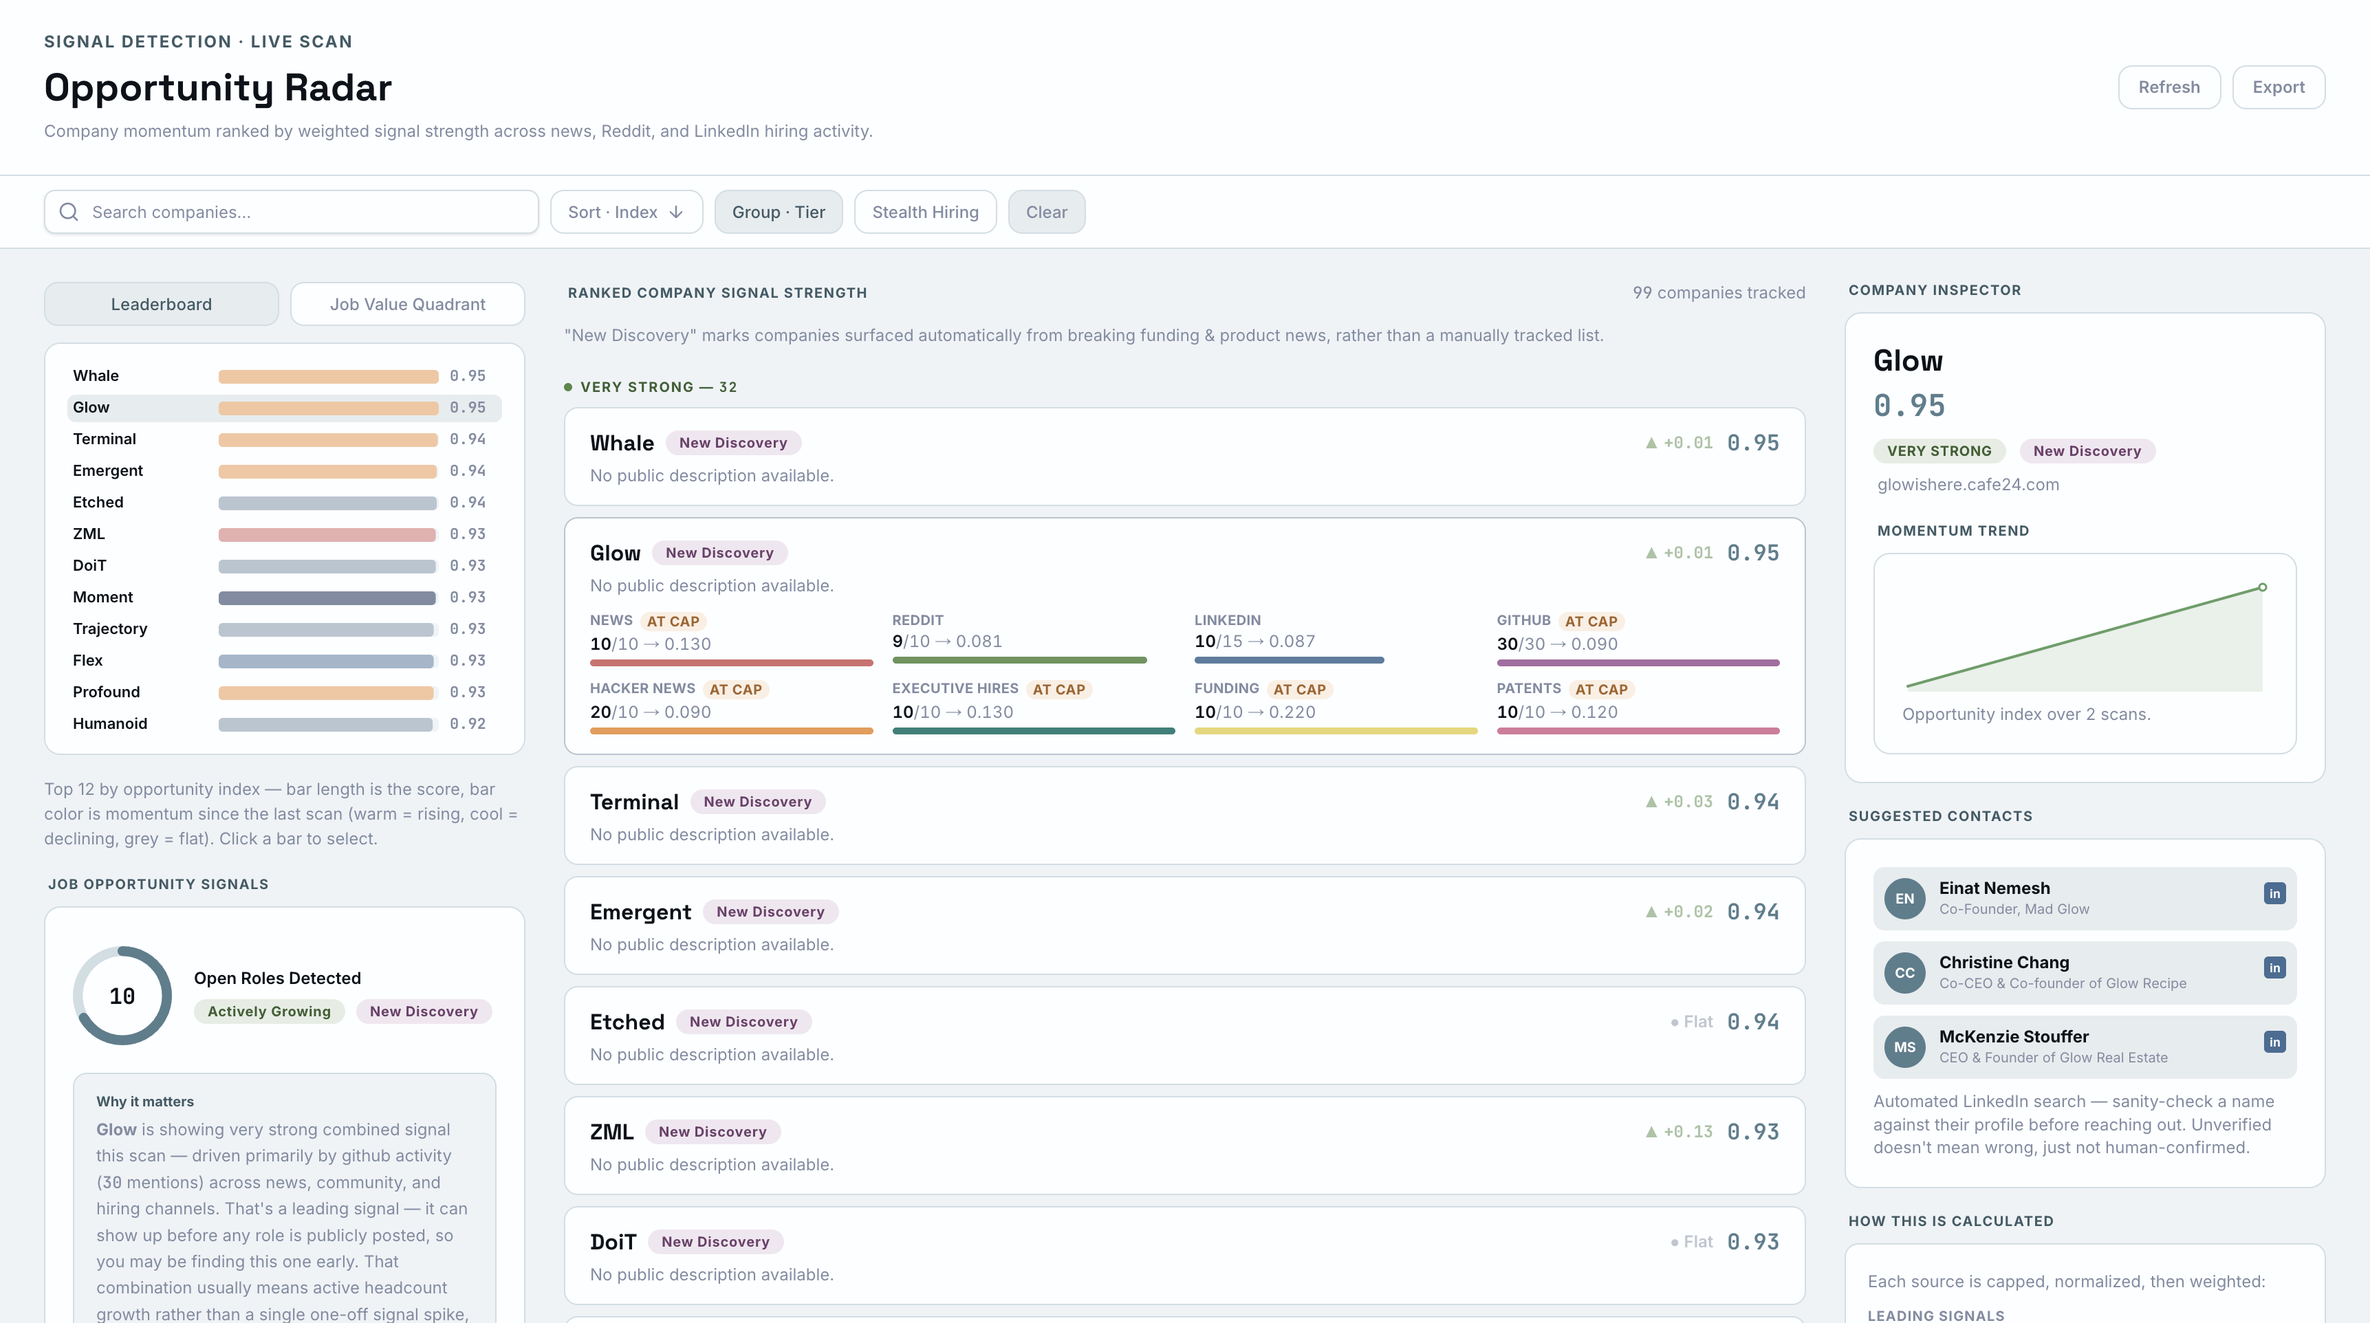
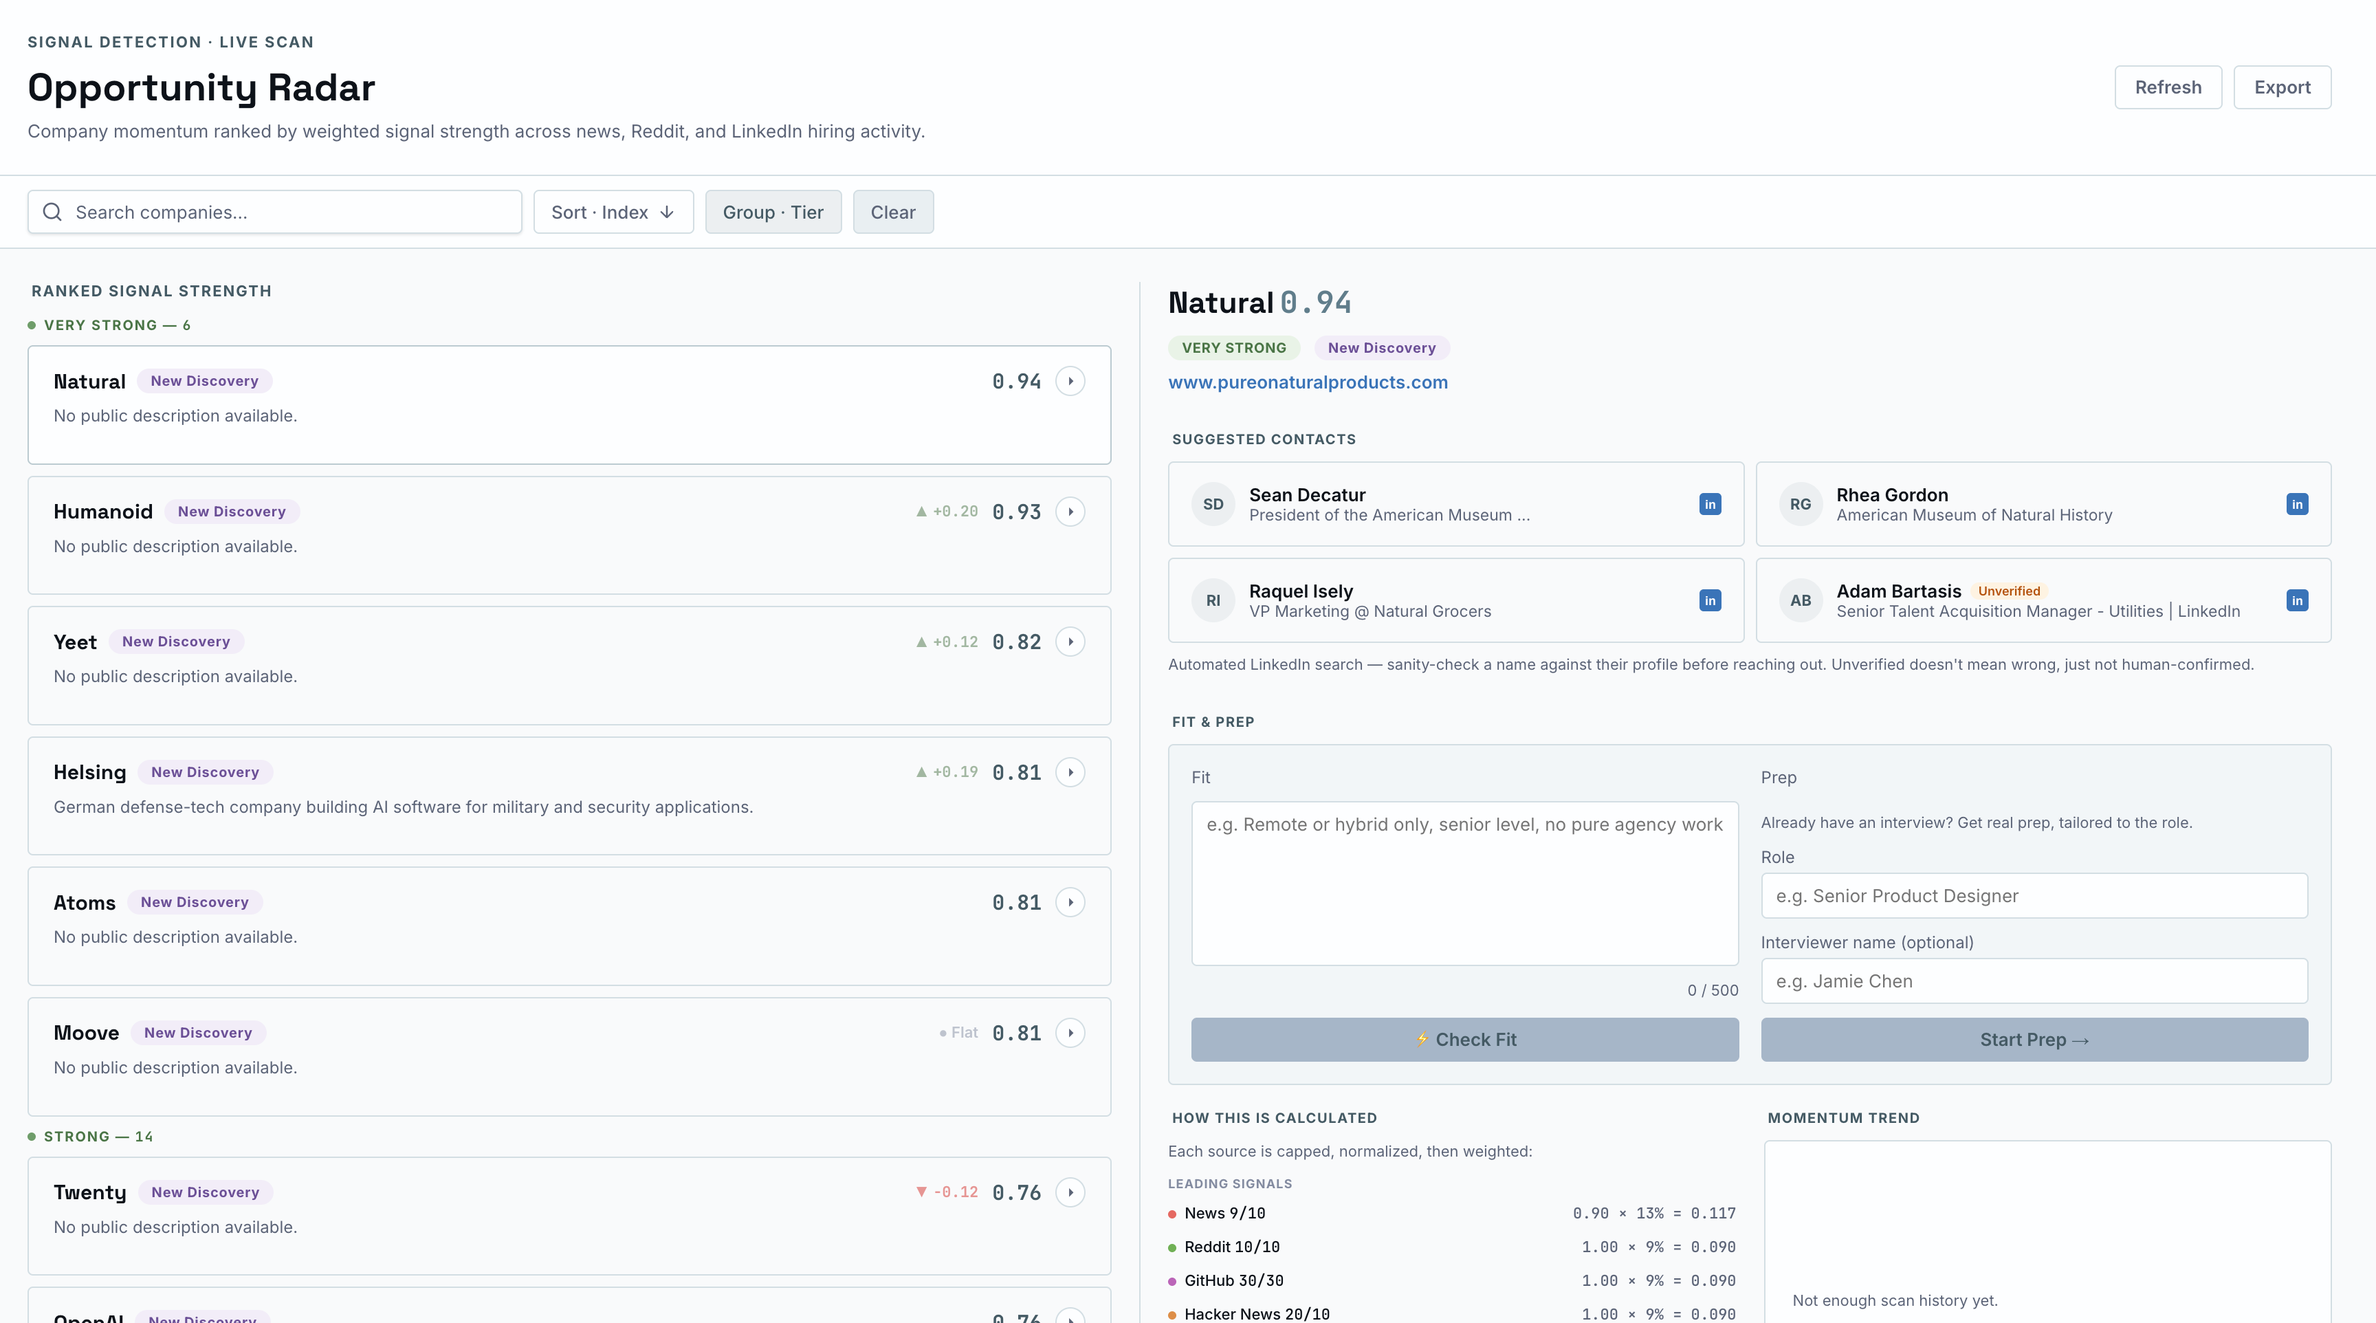
Redo Opportunity Radar case study screenshots
New homepage hero and detail-page screenshots replace the old
four-column-era images (deleted, superseded). Sections reorganized
so the in-situ Fit result leads "What got shipped / cut", the
original four-column dashboard and the batch shortlist modal sit
together as the cut items, and the "Fit, Prep, Close" section shows
two Fit-result examples side by side.

Also fixes a real scroll-reveal bug in main.js: IntersectionObserver
threshold of 0.15 meant any .rail-content section tall enough that
15% of its area never fit in one viewport would never receive
is-visible and stayed permanently invisible. Lowered to 0 so any
visible pixel triggers the reveal, sitewide.

diff --git a/work/opportunity-radar/index.html b/work/opportunity-radar/index.html
@@ -121,7 +121,6 @@
         <div class="detail-section__body">
           <p>Job seekers see roles only after they're posted, after every other applicant has too.</p>
           <p>LinkedIn shows "over 100 people clicked apply" before you've even opened the posting.</p>
-          <p>The real advantage is spotting hiring momentum before a listing ever exists.</p>
           <p>Built for my own job search, to reach the right person before the applicant queue forms.</p>
         </div>
         <div style="margin-top: var(--sp-6);">
@@ -169,8 +168,7 @@
       <div class="rail-content">
         <div class="detail-section__body">
           <p>No design tool, no mockups. This one started as an idea and went straight to a working pipeline.</p>
-          <p>An n8n workflow pulls and normalizes signals from eight sources, writes the results to Google Sheets.</p>
-          <p>An AI coding agent turned that data model directly into the interface: leaderboard, company detail views, and the scoring breakdown all generated from the real schema, not a static comp.</p>
+          <p>An n8n workflow pulls and normalizes signals from eight sources, writes the results to Google Sheets.</p>  
           <p>That's what shipped after three days: a four-column dashboard finding companies, then verifying their actual open roles. Three weeks later, it stopped doing the second half of that on purpose &mdash; more on why, below.</p>
         </div>
         <div class="detail-gallery">
@@ -205,11 +203,11 @@
         </div>
         <div class="detail-gallery">
           <figure class="detail-gallery__item reveal">
-            <img src="images/opprad-00-home.png" alt="Opportunity Radar leaderboard view" style="filter: saturate(0.85);">
+            <img src="images/Opportunity-Radar-Dashboard-homepage-full.png" alt="Opportunity Radar leaderboard view" style="filter: saturate(0.85);">
             <figcaption class="detail-gallery__caption">Leaderboard view: ranked signal strength across all tracked companies.</figcaption>
           </figure>
           <figure class="detail-gallery__item reveal">
-            <img src="images/opprad-05-v2.jpg" alt="Company detail view with momentum trend, rank trend, and signal radar chart">
+            <img src="images/Opportunity-Radar-Dashboard-detailpage.png" alt="Company detail view with momentum trend, rank trend, and signal radar chart">
             <figcaption class="detail-gallery__caption">Momentum trend, rank trend, and a signal radar chart for a single company.</figcaption>
           </figure>
         </div>
@@ -218,6 +216,17 @@
           <span class="section-label">Trade-offs</span>
           <div class="tradeoff-group__item">No Crunchbase API access, so funding-round and headcount data comes from weaker, indirect signals (news mentions, exec-hire activity) instead of the real thing &mdash; the first upgrade I'd make with real budget.</div>
           <div class="tradeoff-group__item">No verified email finder either &mdash; contacts surface as LinkedIn profiles, not confirmed email addresses, leaving a manual step from "here's the person" to actually reaching them.</div>
+        </div>
+
+        <div class="detail-gallery">
+          <figure class="detail-gallery__item reveal">
+            <img src="images/Opportunity-Radar-Dashboard-with-job-search.png" alt="Old four-column dashboard: ranked list, Build Your Shortlist, Verified Openings, Company Inspector">
+            <figcaption class="detail-gallery__caption">Cut: the original four-column dashboard, built around verifying real job postings.</figcaption>
+          </figure>
+          <figure class="detail-gallery__item reveal">
+            <img src="images/Opportunity-Radar-Dashboard-with-company.png" alt="Shortlist modal: a 'Build Your Fit-Check Shortlist' drawer with criteria field, Auto-fill, and up to three empty slots to fill one at a time">
+            <figcaption class="detail-gallery__caption">Cut: a modal for batch-checking up to three companies at once.</figcaption>
+          </figure>
         </div>
 
       </div>
@@ -230,65 +239,29 @@
       </aside>
       <div class="rail-content">
         <div class="detail-section__body">
-          <p>Three weeks after the original build shipped, three more pieces got added on top: Fit (a judgment agent &mdash; is this company worth pursuing), Interview Prep (real, grounded prep once you're actually talking to someone), and Close (scoped but not built, negotiation prep once an offer exists).</p>
-          <p>Partway through, a real contradiction surfaced: Fit had started verifying actual job postings before judging a company &mdash; which quietly worked against Opportunity Radar's own founding premise of surfacing companies <em>before</em> a posting exists. Rather than patch around it, Fit got descoped back to company-and-contact-level judgment only, and the home page got rebuilt around that narrower, more honest scope.</p>
+          <p>Three weeks after the original build shipped, three more pieces got added:<br><br>Fit (a judgment agent &mdash; is this company worth pursuing)<br><br>Interview Prep (real, grounded prep once you're actually talking to someone)<br><br>Close (scoped but not built, negotiation prep once an offer exists).</p>
           <p>Today: two columns, not four. A ranked list and a company's real detail &mdash; signal, contacts, and a fit verdict when you've asked for one &mdash; no job postings involved anywhere in it.</p>
         </div>
 
         <div class="detail-gallery">
           <figure class="detail-gallery__item reveal">
-            <img src="images/Opportunity-Radar-Dashboard-with-job-search.png" alt="Old four-column dashboard: ranked list, Build Your Shortlist, Verified Openings, Company Inspector">
-            <figcaption class="detail-gallery__caption">Before: four columns, built around verifying real job postings.</figcaption>
+            <img src="images/Opportunity-Radar-Dashboard-with-fit-results-homepage.png" alt="In-situ Fit result: criteria field and Check Fit button live in the detail pane, verdict and per-criterion checklist rendered inline below">
+            <figcaption class="detail-gallery__caption">Fit runs in situ, one company at a time, right in the detail pane &mdash; verdict and per-criterion checklist rendered inline.</figcaption>
           </figure>
           <figure class="detail-gallery__item reveal">
-            <img src="images/Opportunity-Radar-Dashboard-2col.png" alt="New two-column dashboard: ranked list with criteria toolbar, and a full company detail pane">
-            <figcaption class="detail-gallery__caption">After: two columns, once Fit stopped verifying postings and the pipeline layout no longer applied.</figcaption>
+            <img src="images/Attribute-—-Company-Detail-full.png" alt="Fit verdict on the full company-detail page: checked criteria list with a mix of matches, warnings, and misses">
+            <figcaption class="detail-gallery__caption">Same Fit verdict, on the full company-detail page.</figcaption>
           </figure>
         </div>
 
         <div class="tradeoff-group">
           <span class="section-label">Shipped</span>
           <div class="tradeoff-group__item">Home page redesigned from four columns to two &mdash; a ranked list with a compact criteria/shortlist toolbar on the left, a full company-detail pane on the right. The old four-column layout had encoded a job-posting pipeline (target &rarr; run &rarr; results) that no longer existed once Fit's scope changed.</div>
-          <div class="tradeoff-group__item">Fit verdicts now surface inline: a colored badge right on the company row, full reasoning in the detail pane &mdash; no separate results screen to go find them in.</div>
-          <div class="tradeoff-group__item">Suggested Contacts and the scoring breakdown reorganized for the wider detail pane, with contacts given real top billing instead of sitting under a chart.</div>
-          <div class="tradeoff-group__item">Two real bugs caught and fixed the same session they were found: a "Prep for this interview" link that got silently orphaned mid-refactor, and a run that failed with zero explanation on screen &mdash; both traced to real causes and fixed, not just patched around.</div>
         </div>
 
         <div class="tradeoff-group">
           <span class="section-label">Cut / not yet built</span>
           <div class="tradeoff-group__item">Job-posting discovery and verification, removed from Fit's scope entirely &mdash; it now judges company and contact fit, not whether a specific listing exists.</div>
-          <div class="tradeoff-group__item">Persistent, named fit-criteria profiles (so a real "who am I fitting against" concept can be saved and switched between) &mdash; designed, not built.</div>
-          <div class="tradeoff-group__item">Close, the negotiation-prep agent &mdash; scoped with real evidence (survey data on how often people don't negotiate) before any code, then deferred a second time in favor of finishing this redesign first.</div>
-        </div>
-
-        <div class="tradeoff-group">
-          <span class="section-label">Open, honestly</span>
-          <div class="tradeoff-group__item">The redesign is built and wired correctly but unverified end-to-end as of this writing &mdash; a real live test (run n8n, refresh the dashboard, run Fit against real output) was blocked by API credit exhaustion mid-session, a real cost of iterating on live, billed agent calls rather than a mocked demo.</div>
-        </div>
-
-        <div class="detail-section__body">
-          <p>Next session: the end-to-end test ran clean, and it surfaced a real structural bug &mdash; the picker/config surface (criteria, shortlist, Auto-fill, the run button) had moved into a summoned drawer modal one session prior. Live use of that modal was the actual verdict: adding companies to a shortlist one at a time meant popping in and out of a modal repeatedly, worse friction than the thing it replaced. Cut, not patched &mdash; back to an always-visible surface, but rebuilt around what the modal had gotten right (a real criteria field, a real run button) rather than reverting to the toolbar that came before it.</p>
-          <p>What replaced it: Fit runs in situ, one company at a time, right in the detail pane already open for whichever company is selected &mdash; no separate picker, no shortlist to manage. A second, later realization sharpened this further: Priya doesn't need a Fit verdict to want interview prep &mdash; a referral or cold apply can land an interview with no Fit check ever run. Prep was pulled out from under Fit's result (where it had been nested, gated behind a verdict that wasn't actually a precondition) and rebuilt as Fit's peer: one card, two independent children, either reachable regardless of the other's state.</p>
-        </div>
-
-        <div class="detail-gallery">
-          <figure class="detail-gallery__item reveal">
-            <img src="images/Opportunity-Radar-Dashboard-modal-success.png" alt="Shortlist modal: a 'Build Your Fit-Check Shortlist' drawer with criteria field, Auto-fill, and up to three empty slots to fill one at a time">
-            <figcaption class="detail-gallery__caption">Tried: a modal for batch-checking up to three companies at once.</figcaption>
-          </figure>
-          <figure class="detail-gallery__item reveal">
-            <img src="images/Opportunity-Radar-Dashboard-fit-message-full-page-04.png" alt="In-situ Fit result: criteria field and Check Fit button live in the detail pane, verdict and per-criterion checklist rendered inline below">
-            <figcaption class="detail-gallery__caption">Cut it: Fit runs in situ instead, one company at a time, no modal to manage.</figcaption>
-          </figure>
-        </div>
-
-        <div class="tradeoff-group">
-          <span class="section-label">Shipped, this pass</span>
-          <div class="tradeoff-group__item">The shortlist modal cut entirely &mdash; not deleted from the codebase (same convention as the earlier posting-verification code), just unwired from the primary flow. Check Fit and a new Start Prep control live directly in the detail pane instead.</div>
-          <div class="tradeoff-group__item">Fit's verdict changed shape: instead of one reasoning paragraph, the model now judges each stated criterion separately (pass / fail / unconfirmed), rendered as a real checklist &mdash; derived with the goal-state method rather than guessed at, since a checklist is the part someone in Priya's position actually reads; the reasoning/company/contact grounding collapses under a one-click disclosure instead of competing for attention.</div>
-          <div class="tradeoff-group__item">Prep un-gated from Fit and rebuilt as a peer widget, "Fit &amp; Prep," two columns side by side, one card &mdash; a real, probable path (already having an interview through a referral, no Fit check ever run) that the earlier nesting had foreclosed on without meaning to.</div>
-          <div class="tradeoff-group__item">A real, extracted design-system color (a blue-grey, pulled from the actual Figma Foundations file rather than approximated) applied to both CTAs; layout, spacing, and alignment passes across both the dashboard and the company-detail page, including two genuinely unstyled elements found along the way (the Signal Radar compare dropdowns and their legend, both shipped with zero CSS).</div>
-          <div class="tradeoff-group__item">Two real, separate root-cause bugs traced and fixed rather than patched: a stale backend process serving pre-descope logic since the previous restart, and a discovery search with no time-scoping, so re-running it just re-found the same companies instead of surfacing new ones.</div>
         </div>
       </div>
     </section>
@@ -301,7 +274,6 @@
       <div class="rail-content">
         <div class="detail-section__body">
           <p>Live and in use: it's surfaced real companies with rising hiring momentum and the people at each one worth reaching out to directly.</p>
-          <p>Just as valuable was what building it taught me: three days deep in Claude Code, VS Code, and GitHub, going from an idea to a working, hosted product using tools I'd only touched at the edges before.</p>
           <p>The live dashboard itself surfaces real suggested contacts at each tracked company, so it isn't posted publicly. <a href="mailto:kevin@kevinkeiper.com" class="link-muted-blue"><strong>Get in touch</strong></a> for a walkthrough.</p>
         </div>
         <ul class="tag-row" style="margin-top: var(--sp-5);">

diff --git a/js/main.js b/js/main.js
@@ -9,7 +9,7 @@ if ('IntersectionObserver' in window && rows.length) {
         observer.unobserve(entry.target);
       }
     });
-  }, { threshold: 0.15, rootMargin: '0px 0px -40px 0px' });
+  }, { threshold: 0, rootMargin: '0px 0px -40px 0px' });
 
   rows.forEach(row => revealObserver.observe(row));
 } else {
